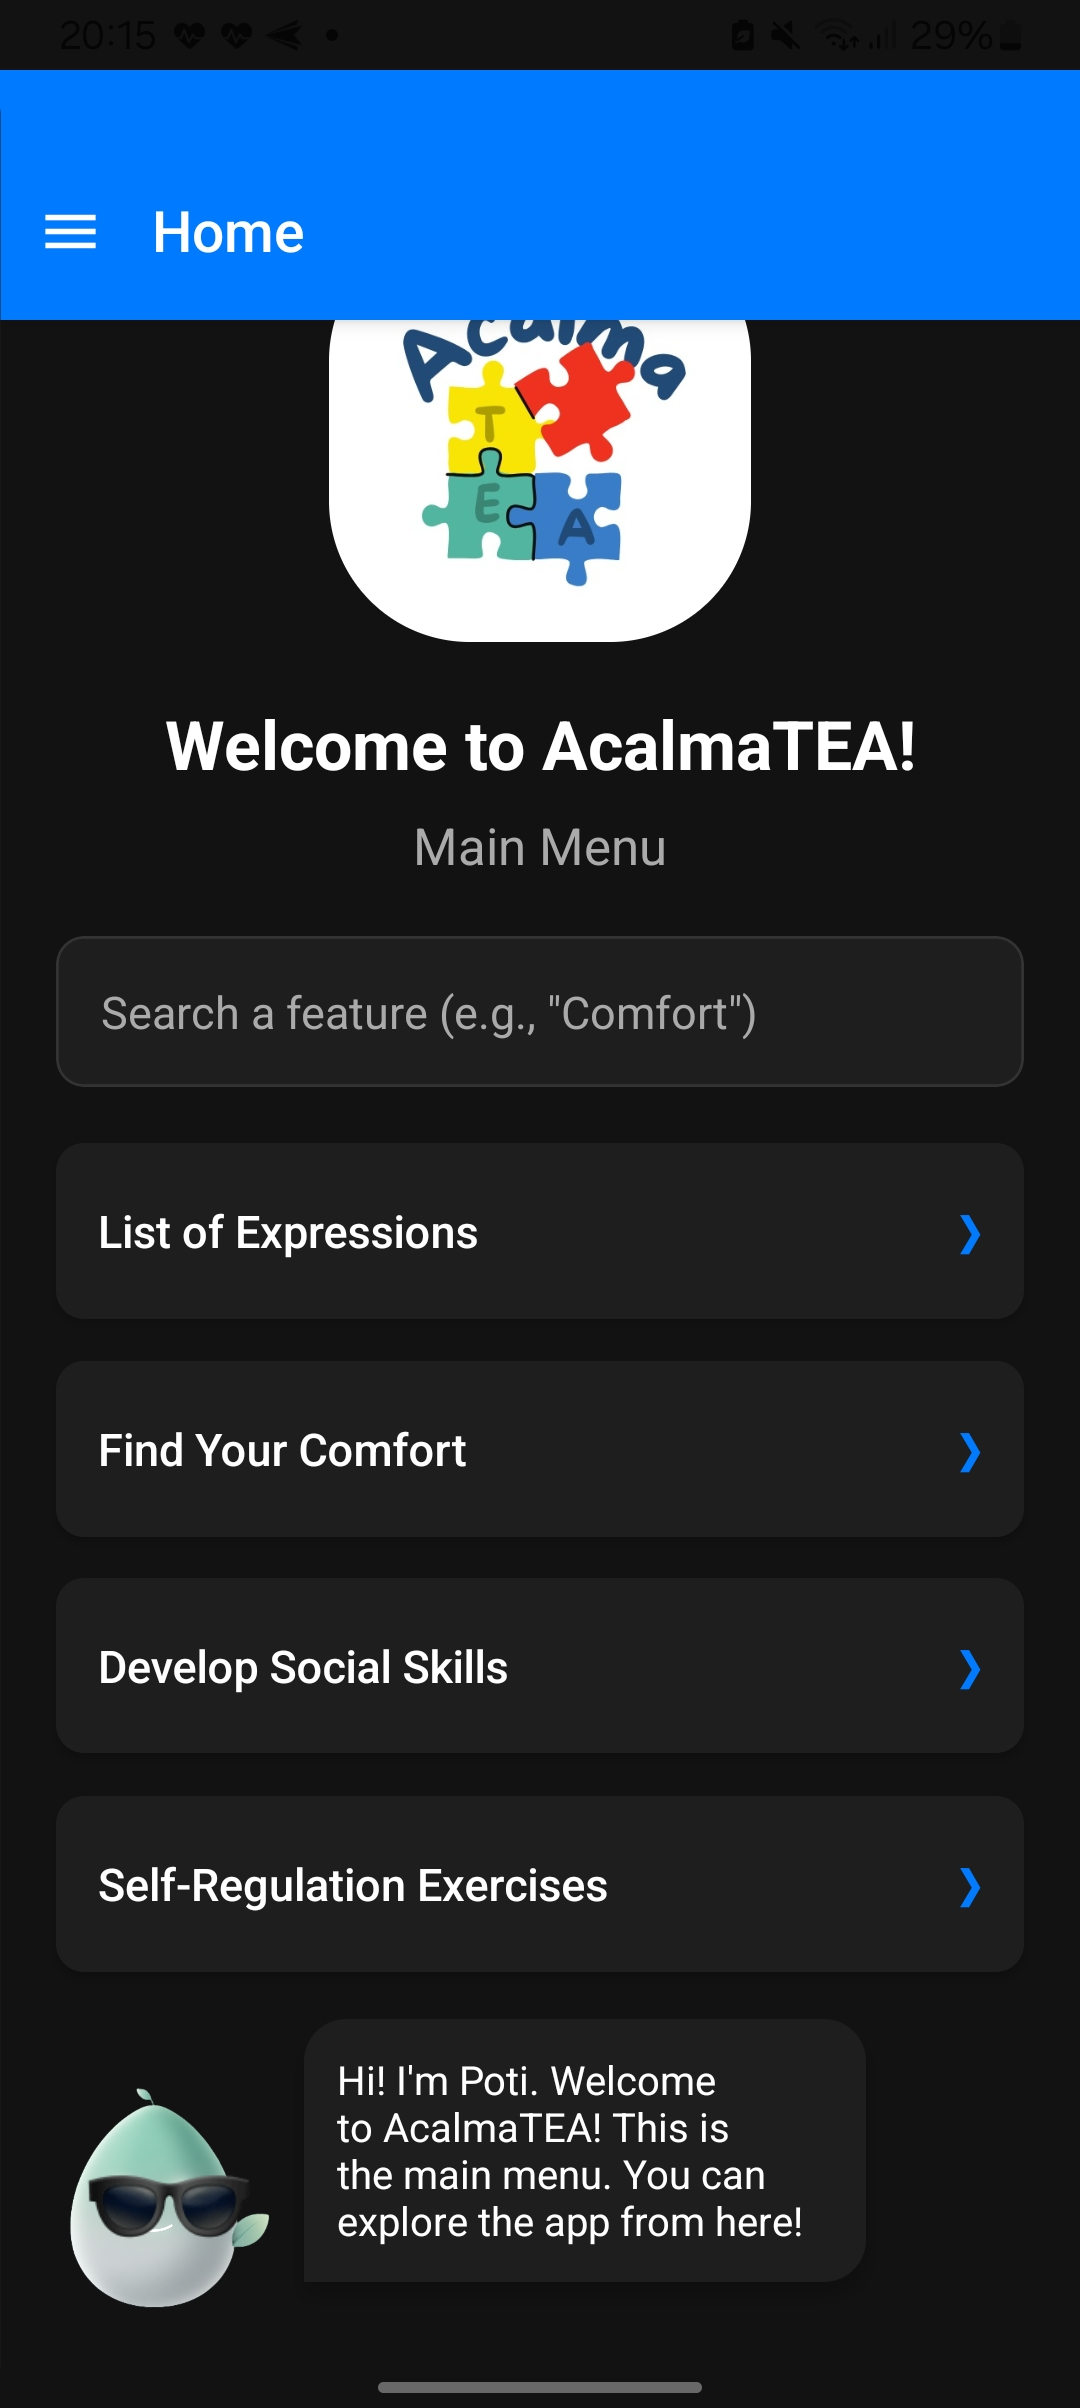
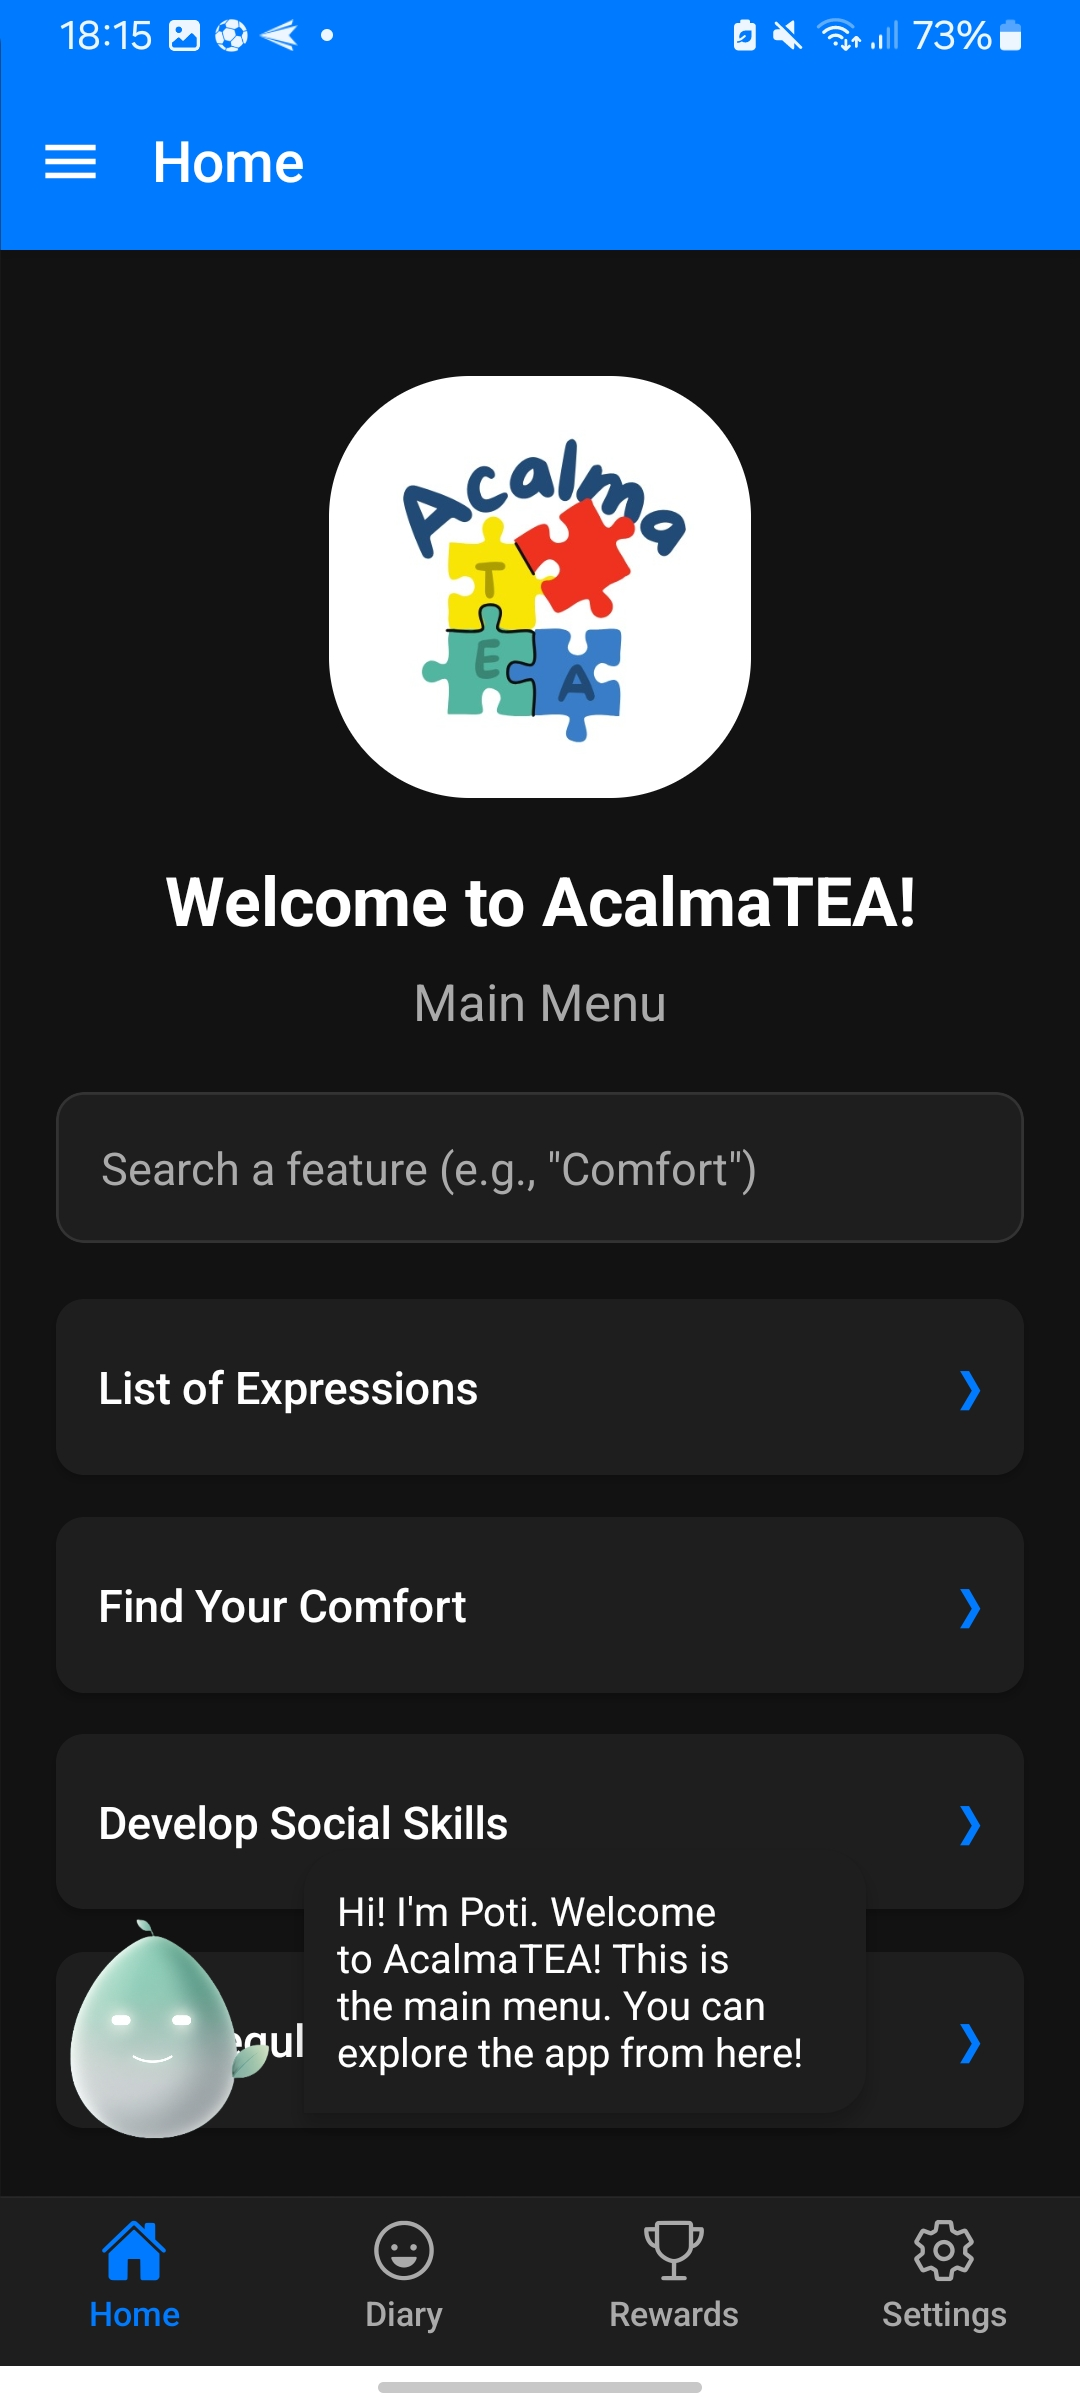
Atualização do Onboarding

diff --git a/screens/OnboardingScreen.js b/screens/OnboardingScreen.js
@@ -33,7 +33,7 @@ const slidesData = [
   },
   {
     id: '3',
-    image: require('../assets/confort.jpg'), 
+    image: require('../assets/comfort.jpg'), 
     titleKey: 'onboarding_title_3',
     descKey: 'onboarding_desc_3',
   },
